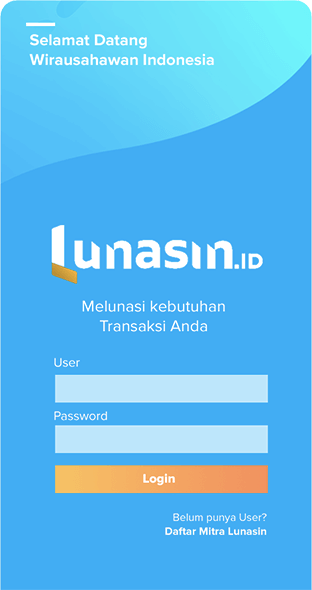
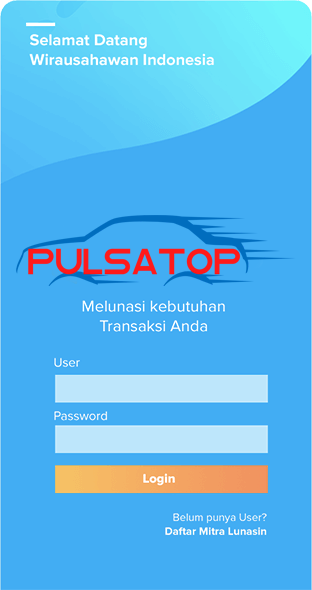
推送

Changed region(s): [[0.0577, 0.3661, 0.8654, 0.4881]]

diff --git a/index.html b/index.html
@@ -13,12 +13,12 @@ j=d.createElement(s),dl=l!='dataLayer'?'&l='+l:'';j.async=true;j.src=
 })(window,document,'script','dataLayer','GTM-KKBHZS2');</script>
 <!-- End Google Tag Manager -->  <meta http-equiv="Content-Type" content="text/html; charset=utf-8">
   <!--[if IE]><meta http-equiv="X-UA-Compatible" content="IE=edge" /><![endif]-->
-  <title>PPOB Resmi Terbaik & Agen Pulsa Terlengkap | Lunasin.id</title>
+  <title>PPOB Resmi Terbaik & Agen Pulsa Terlengkap | PulsaTop.id</title>
   <meta name="description" content="Daftar PPOB resmi dan bisnis agen pulsa di Indonesia gratis, bayar tagihan online PLN, PDAM, BPJS, Telkom, pulsa, e-money mudah tanpa ribet.">
     <meta name="viewport" content="width=device-width, initial-scale=1">
     <meta content="index,follow" name="googlebot">
     <meta name="robots" content="index,follow">
-    <meta content="Lunasin.id" name="author">
+    <meta content="PulsaTop.id" name="author">
     <meta content="In-Id" http-equiv="content-language">
     <meta content="id" name="language">
     <meta content="id" name="geo.country">
@@ -65,13 +65,13 @@ j=d.createElement(s),dl=l!='dataLayer'?'&l='+l:'';j.async=true;j.src=
       {
           "@context": "https://schema.org",
           "@type": "Organization",
-          "name": "Lunasin.id",
+          "name": "PulsaTop.id",
           "url": "https://www.lunasin.id",
           "logo": "assets/img/logo.png",
           "sameAs": [
               "https://www.linkedin.com/company/lunasin-id/",
               "https://www.facebook.com/aplikasilunasin",
-              "https://twitter.com/IdLunasin",
+              "https://twitter.com/PulsaTop",
               "https://www.instagram.com/lunasin.id/"
           ]
       }
@@ -91,10 +91,10 @@ j=d.createElement(s),dl=l!='dataLayer'?'&l='+l:'';j.async=true;j.src=
       {
           "@context":"http://schema.org",
           "@type":"WebSite",
-          "url":"https://www.lunasin.id",
+          "url":"https://www.PulsaTop.id",
           "potentialAction":{
               "@type":"SearchAction",
-              "target":"https://www.lunasin.id/blog?search={search_term_string}",
+              "target":"https://www.PulsaTop.id/blog?search={search_term_string}",
               "query-input":"required name=search_term_string"
           }
       }</script>
@@ -144,7 +144,7 @@ j=d.createElement(s),dl=l!='dataLayer'?'&l='+l:'';j.async=true;j.src=
       <div class="container bring-to-front">
         <div class="row">
           <div class="col-md-8">
-            <h1 class="extra-bold display-md-4 font-md">Mulai bisnis PPOB f </h1>
+            <h1 class="extra-bold display-md-4 font-md">Mulai bisnis PPOB </h1>
             <p class="lead">Nikmati kemudahan bertransaksi dengan berbagai fitur modern dan layanan terbaik dari aplikasi PulsaTop</p>
 
 
@@ -183,7 +183,7 @@ j=d.createElement(s),dl=l!='dataLayer'?'&l='+l:'';j.async=true;j.src=
 
       <div class="iphone light phone-small">
         <div class="screen">
-          <img src="assets/img/screens/app/app-lunasin.jpeg" alt="app lunasin">
+          <img src="assets/img/screens/app/app-login.png" alt="PULSATOP">
         </div>
         <div class="notch"></div>
       </div>
@@ -482,66 +482,6 @@ j=d.createElement(s),dl=l!='dataLayer'?'&l='+l:'';j.async=true;j.src=
 
 
     <!--  BLOG SECTION-->
-    <section class="bloglist" id="blog">
-      <div class="container">
-        <div class="bloglist__header">
-          <div class="bloglist__subtitle">Promo dan Blog</div>
-          <div class="bloglist__toptitle text-alternate ">Jurnal Juragan</div>
-        </div>
-
-        <div class="bloglist__body">
-          <div class="bloglist__row">
-
-                        <!-- loop  -->
-
-            <div class="bloglist__col">
-              <div class="bloglist__img">
-                <a href="blog/info-dan-tips.html" class="bloglist__category">Info dan Tips</a>
-                <img src="https://img.lunasin.id/images/blog/131/1528Cara-Bayar-Indihome-Lewat-Tokopedia-dan-Beberapa-Metode.png" alt="thumbnews">
-              </div>
-                <a href="detail/131/cara-bayar-indihome-lewat-tokopedia.html">
-                    <div class="bloglist__title">Cara Bayar Indihome Lewat Tokopedia dan Beberapa Metode</div>
-                    <p>Perkembangan teknologi mengharuskan untuk penggunaan internet, misalnya memanfaatkan layanan IndiHome. Namun, untuk menggunakannya harus langganan dan membayar setiap bulannya. Bahkan, cara bayar indihome lewat Tokopedia atau cara lain mudah dilakukan.</p>
-                </a>
-            </div><!-- col-->
-
-                        <!-- loop  -->
-
-            <div class="bloglist__col">
-              <div class="bloglist__img">
-                <a href="blog/info-dan-tips.html" class="bloglist__category">Info dan Tips</a>
-                <img src="https://img.lunasin.id/images/blog/124/4529Cara-Daftar-Internet-Banking-Mandiri-yang-Mudah-dan-Praktis.png" alt="thumbnews">
-              </div>
-                <a href="detail/124/cara-daftar-internet-banking-mandiri.html">
-                    <div class="bloglist__title">Cara Daftar Internet Banking Mandiri yang Mudah dan Praktis</div>
-                    <p>Cara daftar internet banking Mandiri sebetulnya bukanlah hal yang sulit. Cukup penuhi persyaratan dan ikuti beberapa langkah berikut, Anda bisa dengan mudah memiliki akses untuk melakukan transaksi di internet banking Mandiri. Seperti apa langkah-langkahny</p>
-                </a>
-            </div><!-- col-->
-
-                        <!-- loop  -->
-
-            <div class="bloglist__col">
-              <div class="bloglist__img">
-                <a href="blog/info-dan-tips.html" class="bloglist__category">Info dan Tips</a>
-                <img src="https://img.lunasin.id/images/blog/130/2547Cara-Bayar-PBB-Lewat-Tokopedia-Mudah-Tanpa-Keluar-Rumah.png" alt="thumbnews">
-              </div>
-                <a href="detail/130/cara-bayar-pbb-lewat-tokopedia.html">
-                    <div class="bloglist__title">Cara Bayar PBB Lewat Tokopedia Mudah Tanpa Keluar Rumah</div>
-                    <p>Kemudahan cara bayar PBB lewat Tokopedia sangatlah membantu. Bahkan, pembayaran yang dilakukan hanya membutuhkan waktu yang singkat. Begitu juga pelaksanaannya bisa dilakukan di manapun dan kapanpun sesuai keinginan, karena sangat aman.</p>
-                </a>
-            </div><!-- col-->
-
-
-
-          </div><!-- row -->
-
-          <div class="bloglist__more"><a href="blog.html"><span>Baca Lebih Lanjut</span></a></div>
-
-        </div>
-
-
-      </div> <!-- container -->
-    </section>
 
 
         <!-- Features you can't miss FEATURE SECTION-->
@@ -651,12 +591,7 @@ j=d.createElement(s),dl=l!='dataLayer'?'&l='+l:'';j.async=true;j.src=
             <figure class="bubble bubble-right rounded overflow-hidden shadow">
               <img src="assets/img/screens/app/pieces/smartphone-2.png" class="img-responsive" alt="smartphone2" data-aos="fade-left">
             </figure>
-            <div class="iphone light">
-              <div class="screen shadow-box">
-                <img src="assets/img/screens/app/app-lunasin.jpeg" alt="app-lunasin">
-              </div>
-              <div class="notch"></div>
-            </div>
+
           </div>
         </div>
       </div>

diff --git a/common/footer.html b/common/footer.html
@@ -16,18 +16,6 @@
 </span><br/>
                 </div>
                 <br/>
-                <div class="footer-colbot-title">Info Bisnis</div>
-                <div class="footer-collist">
-                    <span>Email : lunasin.bisnis@gmail.com</span> <br/>
-
-                </div>
-                <br/>
-                <div class="footer-colbot-title">Bantuan</div>
-                <div class="footer-collist">
-                    <span>Email: lunasin.helpdesk@gmail.com</span><br/>
-
-                </div>
-
 
 
             </div>
@@ -36,15 +24,15 @@
 
         <div class="col-md-3">
 
-            <div class="footer-colbot">
+            <!--<div class="footer-colbot">
                 <div class="footer-colbot-title">TENTANG PulsaTop.ID</div>
                 <div class="footer-collist">
                     <ul class="footmenu" style="padding-left:0">
                         <li><a href="faq.html">FAQ</a></li>
-                        <!--<li><a href="privacy.html" target="_blank">Kebijakan Privasi</a></li>-->
+                        <!--<li><a href="privacy.html" target="_blank">Kebijakan Privasi</a></li>
                     </ul>
                 </div>
-            </div>
+            </div>-->
 
 
 
@@ -54,11 +42,10 @@
 
         <div class="col-md-3">
             <div class="footer-colbot">
-                <div class="footer-colbot-title">LAINNYA</div>
+                <div class="footer-colbot-title">INFO BISNIS</div>
                 <div class="footer-collist">
                     <ul class="footmenu" style="padding-left:0">
-                        <li><a href="privacy.html" target="_blank">Kebijakan Privasi</a></li>
-                        <li><a href="#">Aplikasi</a></li>
+                        <span>Email : lunasin.bisnis@gmail.com</span> <br/>
                     </ul>
                 </div>
                 <br/>
@@ -71,10 +58,9 @@
 
 
         <div class="col-md-3">
-            <div class="footer-colbot-title">DIDUKUNG OLEH</div>
+            <div class="footer-colbot-title">TELEPON</div>
             <div class="footer-collist">
-                <span>PT Cakrawala Sahabat Nusantara</span><br/>
-                <span>AHU-0057842.AH.01.01 4-11-2019</span><br/>
+                <span>这里放电话号码</span><br/>
 
             </div>
 
